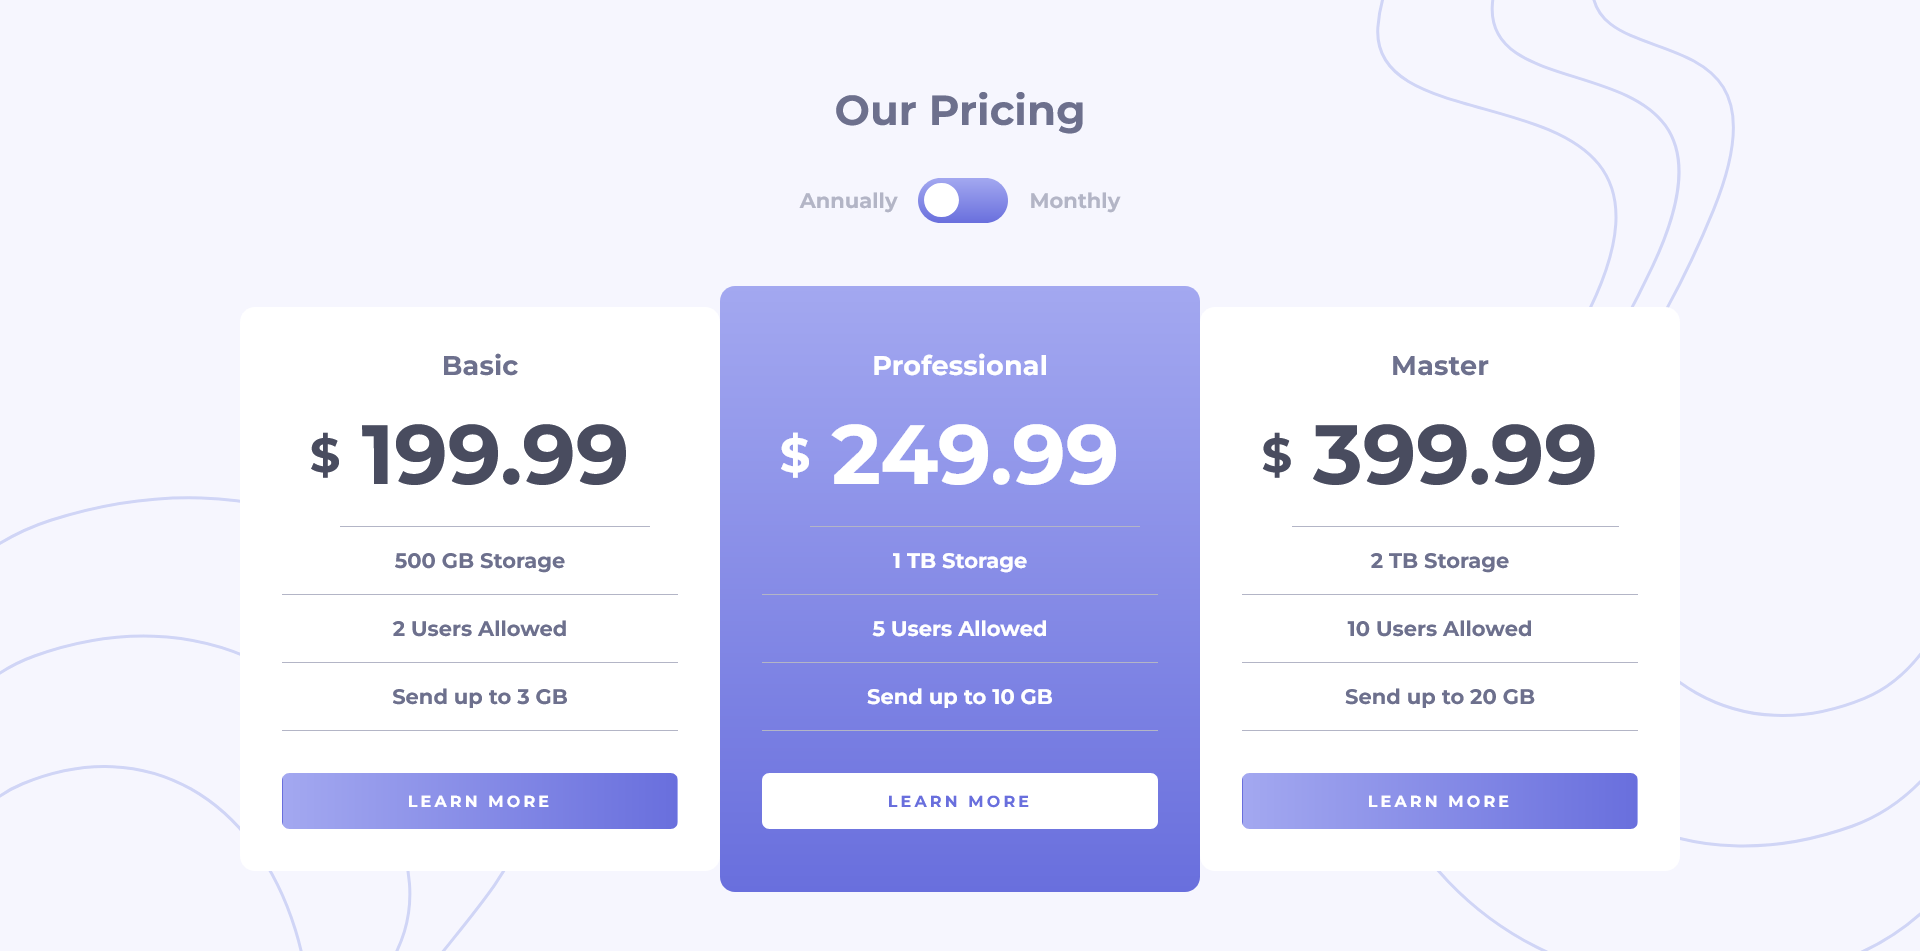
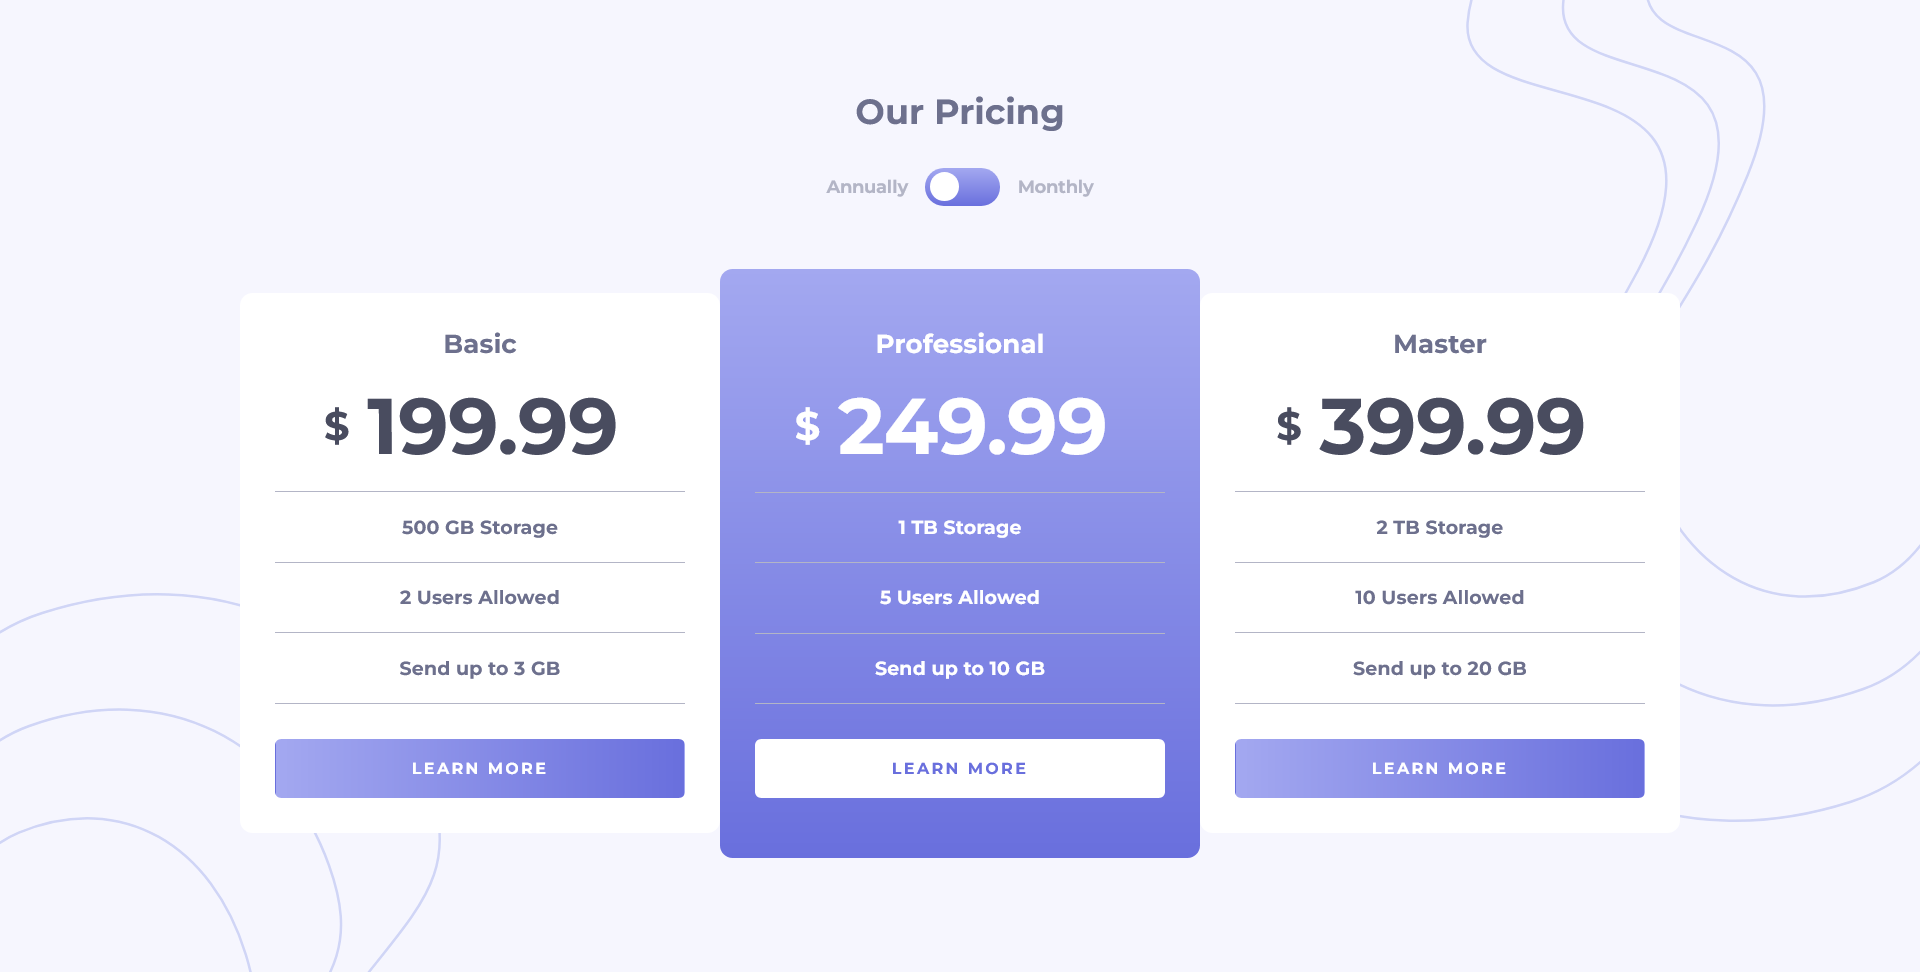
misc fixes

diff --git a/style.css b/style.css
@@ -26,7 +26,7 @@ body {
   background-color: var(--lighter-grayish-blue);
   min-height: 100vh;
   display: grid;
-  justify-content: center;
+  place-content: center;
   text-align: center;
   font-family: 'Montserrat';
   color: var(--grayish-blue);
@@ -38,17 +38,18 @@ main, .cards, .toggle {
 
 .main-container {
   flex-direction: column;
-  padding-top: 4rem;
+  /* padding-top: 4rem; */
   width: 100%;
 }
 
 h2 {
-  font-size: 1.3rem;
+  font-size: 1.5rem;
 }
 
 li {
-  padding: 1rem 0 1rem 0;
+  padding: 1.3rem 0 1.3rem 0;
   border-bottom: solid 1px var(--light-grayish-blue);
+  font-size: 1.1rem;
 }
 
 ul {
@@ -60,9 +61,9 @@ a {
   border: 1px solid transparent;
   text-decoration: none;
   border-radius: 5px;
-  font-size: 0.77rem;
+  font-size: 0.9rem;
   letter-spacing: 2px;
-  padding: 0.8rem;
+  padding: 1.1rem;
   color: white;
   margin-top: 2rem;
   background: linear-gradient(to right, var(--light-purple), var(--purple));
@@ -133,7 +134,7 @@ input:checked + .slider::before {
 
 .cards {
   display: flex;
-  padding-top: 4rem;
+  padding-top: 5rem;
   width: 75vw;
 }
 
@@ -145,14 +146,15 @@ input:checked + .slider::before {
   display: flex;
   flex-direction: column;
   height: fit-content;
+  /* width: 278px; */
 }
 
 .featured {
   height: fit-content;
   color: white;
   background: linear-gradient(var(--light-purple), var(--purple));
-  padding: 3rem 2rem 3rem 2rem;
-  transform: translateY(-1rem);
+  padding: 3.4rem 2rem 3.4rem 2rem;
+  transform: translateY(-1.4rem);
 }
 
 .featured .price-annually,
@@ -174,8 +176,8 @@ input:checked + .slider::before {
 
 .price {
   padding: 1rem;
-  border-bottom: solid 1px var(--light-grayish-blue);
-  font-size: 4rem;
+  /* border-bottom: solid 1px var(--light-grayish-blue); */
+  font-size: 4.5rem;
   color: var(--dark-grayish-blue);
 }
 
@@ -188,8 +190,9 @@ input:checked + .slider::before {
     display: flex;
     align-items: center;
     justify-content: center;
-    font-size: 32px;
+    font-size: 2.3rem;
     color: hsl(232, 13%, 33%);
+    border-bottom: solid 1px var(--light-grayish-blue);
 }
 
 .price-monthly {
@@ -202,13 +205,30 @@ input:checked + .slider::before {
     background-position: top right;
     padding: 4rem 1.5rem 4rem 1.5rem;  
   }
+  a {
+    padding: 0.9rem;
+    font-size: 0.77rem;
+  }
+  .card {
+    width: 278px;
+  }
   .cards {
     flex-direction: column;
     row-gap: 2rem;
     width: 100%;
   }
+  li {
+    font-size: 1rem;
+  }
   .featured {
     transform: translate(0);
     padding: 2rem;
+  }
+  .price {
+    font-size: 4rem;
+  }
+  .price-annually,
+  .price-monthly {
+    font-size: 2rem;
   }
 }

diff --git a/index.html b/index.html
@@ -68,30 +68,3 @@
     </main>
   </body>
 </html>
-
-<!-- 
-
-  Basic
-  &dollar;19.99
-  &dollar;199.99
-  500 GB Storage
-  2 Users Allowed
-  Send up to 3 GB
-  Learn More
-
-  Professional
-  &dollar;24.99
-  &dollar;249.99
-  1 TB Storage
-  5 Users Allowed
-  Send up to 10 GB
-  Learn More
-
-  Master
-  &dollar;39.99
-  &dollar;399.99
-  2 TB Storage
-  10 Users Allowed
-  Send up to 20 GB
-  Learn More 
-  -->
